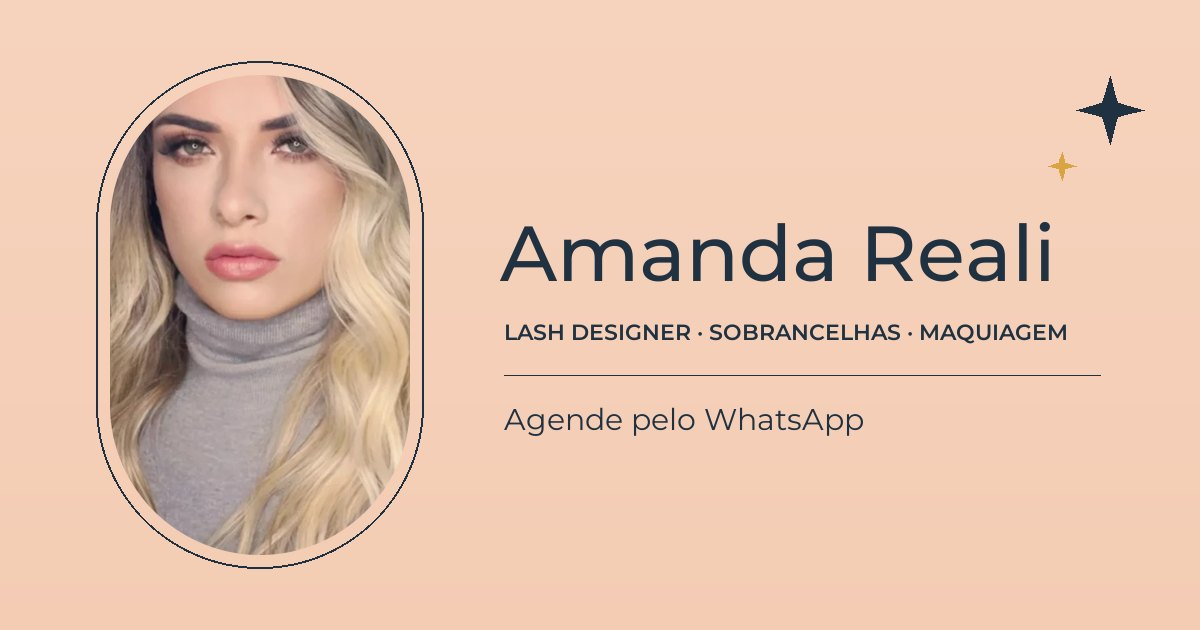
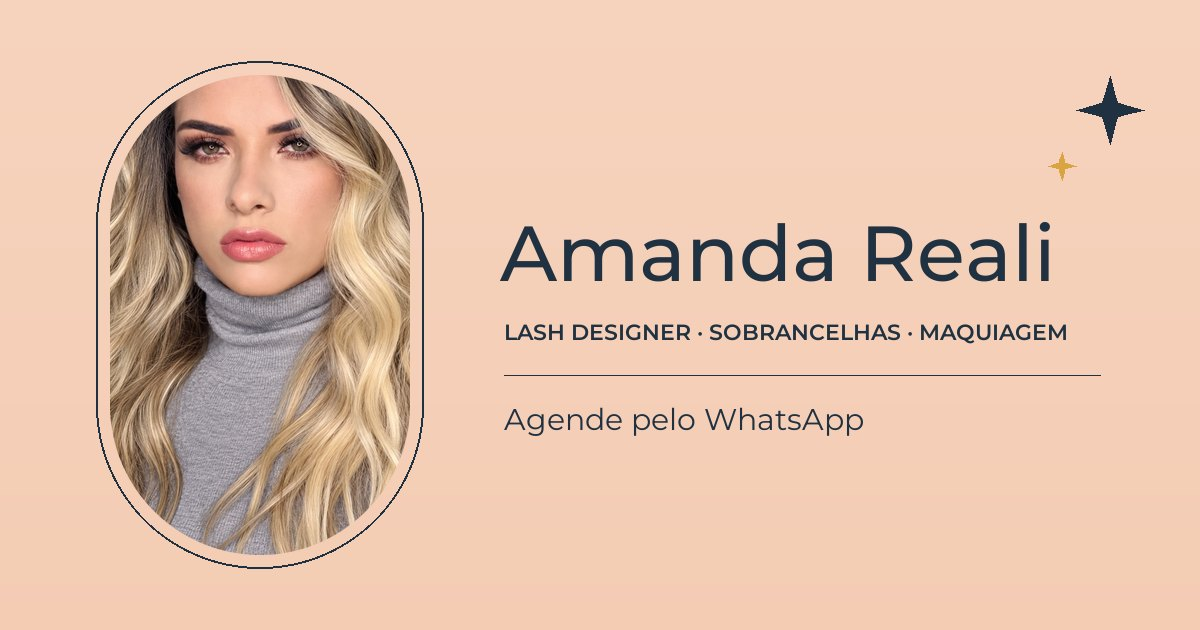
Fotos da Amanda em alta na abertura e no Sobre

Changed region(s): [[0.0925, 0.1206, 0.3392, 0.8746]]

diff --git a/index.html b/index.html
@@ -18,7 +18,7 @@
 <link rel="preconnect" href="https://fonts.googleapis.com">
 <link rel="preconnect" href="https://fonts.gstatic.com" crossorigin>
 <link rel="stylesheet" href="https://fonts.googleapis.com/css2?family=Montserrat:wght@400;500;600&display=swap">
-<link rel="stylesheet" href="assets/css/site.css?v=5">
+<link rel="stylesheet" href="assets/css/site.css?v=6">
 </head>
 <body class="inicio">
 <a class="sr" href="#conteudo">Pular para o conteúdo</a>
@@ -35,7 +35,7 @@
   <div class="wrap">
     <figure class="arco">
       <svg class="arco-texto" viewBox="0 0 400 220" aria-hidden="true"><defs><path id="curva" d="M40 205a160 160 0 0 1 320 0"/></defs><text><textPath href="#curva" startOffset="50%" text-anchor="middle">Um novo conceito de beleza</textPath></text></svg>
-      <div class="arco-foto"><img src="assets/img/amanda-358.webp" alt="Amanda Reali, lash designer" width="358" height="606" fetchpriority="high"></div>
+      <div class="arco-foto"><img src="assets/img/amanda-420.webp" srcset="assets/img/amanda-420.webp 420w, assets/img/amanda-760.webp 760w" sizes="(min-width:960px) 330px, 62vw" alt="Amanda Reali, lash designer" width="420" height="657" fetchpriority="high"></div>
       <span class="arco-brilho"><svg class="i-estrela" viewBox="0 0 24 24" aria-hidden="true"><path d="M12 0c.9 6.4 5.1 10.6 12 12-6.9 1.4-11.1 5.6-12 12-.9-6.4-5.1-10.6-12-12C6.9 10.6 11.1 6.4 12 0z"/></svg></span>
     </figure>
     <div class="hero-texto">
@@ -150,7 +150,7 @@
 <section class="secao" id="sobre" aria-labelledby="t-sobre">
   <div class="wrap sobre">
     <figure class="sobre-foto" data-rv>
-      <div class="sobre-quadro"><img src="assets/img/amanda-sobre-400.webp" alt="Amanda Reali" loading="lazy" width="400" height="400"></div>
+      <div class="sobre-quadro"><img src="assets/img/amanda-sobre-420.webp" srcset="assets/img/amanda-sobre-420.webp 420w, assets/img/amanda-sobre-800.webp 800w" sizes="(min-width:960px) 320px, 66vw" alt="Amanda Reali" loading="lazy" width="420" height="420"></div>
       <span class="sobre-brilho"><svg class="i-estrela" viewBox="0 0 24 24" aria-hidden="true"><path d="M12 0c.9 6.4 5.1 10.6 12 12-6.9 1.4-11.1 5.6-12 12-.9-6.4-5.1-10.6-12-12C6.9 10.6 11.1 6.4 12 0z"/></svg></span>
     </figure>
     <div class="sobre-texto">
@@ -229,7 +229,7 @@
   <div class="lb-palco"><img alt=""></div>
   <div class="lb-base"><button type="button" data-ant aria-label="Anterior">&larr;</button><span class="rot" data-leg></span><button type="button" data-prox aria-label="Próxima">&rarr;</button></div>
 </div>
-<script src="assets/js/obras.js?v=5"></script>
-<script src="assets/js/site.js?v=5"></script>
+<script src="assets/js/obras.js?v=6"></script>
+<script src="assets/js/site.js?v=6"></script>
 </body>
 </html>

diff --git a/tools/paginas/index.html b/tools/paginas/index.html
@@ -8,7 +8,7 @@
   <div class="wrap">
     <figure class="arco">
       <svg class="arco-texto" viewBox="0 0 400 220" aria-hidden="true"><defs><path id="curva" d="M40 205a160 160 0 0 1 320 0"/></defs><text><textPath href="#curva" startOffset="50%" text-anchor="middle">Um novo conceito de beleza</textPath></text></svg>
-      <div class="arco-foto"><img src="assets/img/amanda-358.webp" alt="Amanda Reali, lash designer" width="358" height="606" fetchpriority="high"></div>
+      <div class="arco-foto"><img src="assets/img/amanda-420.webp" srcset="assets/img/amanda-420.webp 420w, assets/img/amanda-760.webp 760w" sizes="(min-width:960px) 330px, 62vw" alt="Amanda Reali, lash designer" width="420" height="657" fetchpriority="high"></div>
       <span class="arco-brilho"><!--estrela--></span>
     </figure>
     <div class="hero-texto">
@@ -123,7 +123,7 @@
 <section class="secao" id="sobre" aria-labelledby="t-sobre">
   <div class="wrap sobre">
     <figure class="sobre-foto" data-rv>
-      <div class="sobre-quadro"><img src="assets/img/amanda-sobre-400.webp" alt="Amanda Reali" loading="lazy" width="400" height="400"></div>
+      <div class="sobre-quadro"><img src="assets/img/amanda-sobre-420.webp" srcset="assets/img/amanda-sobre-420.webp 420w, assets/img/amanda-sobre-800.webp 800w" sizes="(min-width:960px) 320px, 66vw" alt="Amanda Reali" loading="lazy" width="420" height="420"></div>
       <span class="sobre-brilho"><!--estrela--></span>
     </figure>
     <div class="sobre-texto">

diff --git a/agendar.html b/agendar.html
@@ -18,7 +18,7 @@
 <link rel="preconnect" href="https://fonts.googleapis.com">
 <link rel="preconnect" href="https://fonts.gstatic.com" crossorigin>
 <link rel="stylesheet" href="https://fonts.googleapis.com/css2?family=Montserrat:wght@400;500;600&display=swap">
-<link rel="stylesheet" href="assets/css/site.css?v=5">
+<link rel="stylesheet" href="assets/css/site.css?v=6">
 </head>
 <body class="interna">
 <a class="sr" href="#conteudo">Pular para o conteúdo</a>
@@ -109,7 +109,7 @@
   </div>
 </footer>
 <a hidden class="zap-fixo" href="agendar.html" aria-label="Agendar horário"><svg class="i-estrela" viewBox="0 0 24 24" aria-hidden="true"><path d="M12 0c.9 6.4 5.1 10.6 12 12-6.9 1.4-11.1 5.6-12 12-.9-6.4-5.1-10.6-12-12C6.9 10.6 11.1 6.4 12 0z"/></svg><span>Agendar</span></a>
-<script src="assets/js/obras.js?v=5"></script>
-<script src="assets/js/site.js?v=5"></script>
+<script src="assets/js/obras.js?v=6"></script>
+<script src="assets/js/site.js?v=6"></script>
 </body>
 </html>

diff --git a/404.html b/404.html
@@ -19,7 +19,7 @@
 <link rel="preconnect" href="https://fonts.googleapis.com">
 <link rel="preconnect" href="https://fonts.gstatic.com" crossorigin>
 <link rel="stylesheet" href="https://fonts.googleapis.com/css2?family=Montserrat:wght@400;500;600&display=swap">
-<link rel="stylesheet" href="assets/css/site.css?v=5">
+<link rel="stylesheet" href="assets/css/site.css?v=6">
 </head>
 <body class="interna">
 <a class="sr" href="#conteudo">Pular para o conteúdo</a>
@@ -51,7 +51,7 @@
   </div>
 </footer>
 <a class="zap-fixo" href="agendar.html" aria-label="Agendar horário"><svg class="i-estrela" viewBox="0 0 24 24" aria-hidden="true"><path d="M12 0c.9 6.4 5.1 10.6 12 12-6.9 1.4-11.1 5.6-12 12-.9-6.4-5.1-10.6-12-12C6.9 10.6 11.1 6.4 12 0z"/></svg><span>Agendar</span></a>
-<script src="assets/js/obras.js?v=5"></script>
-<script src="assets/js/site.js?v=5"></script>
+<script src="assets/js/obras.js?v=6"></script>
+<script src="assets/js/site.js?v=6"></script>
 </body>
 </html>

diff --git a/trabalhos.html b/trabalhos.html
@@ -18,7 +18,7 @@
 <link rel="preconnect" href="https://fonts.googleapis.com">
 <link rel="preconnect" href="https://fonts.gstatic.com" crossorigin>
 <link rel="stylesheet" href="https://fonts.googleapis.com/css2?family=Montserrat:wght@400;500;600&display=swap">
-<link rel="stylesheet" href="assets/css/site.css?v=5">
+<link rel="stylesheet" href="assets/css/site.css?v=6">
 </head>
 <body class="interna">
 <a class="sr" href="#conteudo">Pular para o conteúdo</a>
@@ -75,7 +75,7 @@
   <div class="lb-palco"><img alt=""></div>
   <div class="lb-base"><button type="button" data-ant aria-label="Anterior">&larr;</button><span class="rot" data-leg></span><button type="button" data-prox aria-label="Próxima">&rarr;</button></div>
 </div>
-<script src="assets/js/obras.js?v=5"></script>
-<script src="assets/js/site.js?v=5"></script>
+<script src="assets/js/obras.js?v=6"></script>
+<script src="assets/js/site.js?v=6"></script>
 </body>
 </html>

diff --git a/assets/css/site.css b/assets/css/site.css
@@ -126,7 +126,7 @@ p{margin:0 0 1em}
 .arco-texto{position:absolute;left:-18%;top:-13%;width:136%;overflow:visible;pointer-events:none}
 .arco-texto text{font:500 25px var(--fonte);fill:var(--tinta);letter-spacing:.02em}
 .arco-foto{position:relative;aspect-ratio:358/560;border-radius:999px;overflow:hidden;background:var(--pessego2)}
-.arco-foto img{width:100%;height:100%;object-fit:cover;object-position:50% 40%}
+.arco-foto img{width:100%;height:100%;object-fit:cover;object-position:50% 30%}
 .arco::after{content:"";position:absolute;inset:-10px;border:1px solid var(--tinta);border-radius:999px;pointer-events:none}
 .arco-brilho{position:absolute;right:-14%;bottom:8%;width:34px;height:34px;color:var(--tinta)}
 .arco-brilho svg{width:100%;height:100%}

diff --git a/tools/processar.py b/tools/processar.py
@@ -72,15 +72,17 @@ def main():
     open(os.path.join(SITE, 'assets', 'js', 'obras.js'), 'w', encoding='utf-8').write(
         'window.OBRAS = ' + json.dumps(lista, ensure_ascii=False, separators=(',', ':')) + ';\n')
 
-    # foto dela: miolo da moldura oval do post de apresentação
-    p = Image.open(os.path.join(REF, 'identidade.webp')).convert('RGB')
-    p = p.crop((168, 132, 526, 738))
-    salvar(p, IMG, 'amanda', (358,), q=88)
-
-    # foto do Sobre: Amanda.jpg do zip (só 100 px; ampliada 4x até chegar a original). CONFIRMAR
-    s = Image.open(os.path.join(ORIG, 'Amanda.jpg')).convert('RGB')
-    s = s.resize((400, 400), Image.LANCZOS).filter(ImageFilter.UnsharpMask(radius=1.2, percent=60, threshold=2))
-    s.save(os.path.join(IMG, 'amanda-sobre-400.webp'), 'WEBP', quality=88, method=6)
+    # fotos dela em alta (enviadas pelo usuário em 06/10)
+    h = Image.open(os.path.join(REF, 'cliente', 'amanda-hero.png')).convert('RGB')
+    w = round(h.height * 358 / 560)  # proporção do arco da abertura
+    x = (h.width - w) // 2
+    h = h.crop((x, 0, x + w, h.height))
+    for lw in (420, 760):
+        h.resize((lw, round(h.height * lw / h.width)), Image.LANCZOS).save(os.path.join(IMG, f'amanda-{lw}.webp'), 'WEBP', quality=84, method=6)
+    p = h  # base da prévia de link
+    so = Image.open(os.path.join(REF, 'cliente', 'amanda-sobre.png')).convert('RGB')
+    for lw in (420, 800):
+        so.resize((lw, lw), Image.LANCZOS).save(os.path.join(IMG, f'amanda-sobre-{lw}.webp'), 'WEBP', quality=84, method=6)
 
     # efeitos: imagens ilustrativas geradas por IA (Figma AI, gemini-3.1-flash-image), em ../_ref/efeitos-ia
     for n in ('natural', 'boneca', 'gatinho', 'esquilo', 'molhado'):
@@ -97,7 +99,7 @@ def main():
     for y in range(630):
         gd.line((0, y, 1200, y), fill=int(120 * y / 630))
     og.paste(Image.new('RGB', (1200, 630), (242, 196, 170)), (0, 0), g)
-    foto = p.resize((300, round(p.height * 300 / p.width)), Image.LANCZOS).crop((0, 0, 300, 480))
+    foto = ImageOps.fit(p, (300, 480), Image.LANCZOS, centering=(.5, .3))
     masc = Image.new('L', (300 * 4, 480 * 4), 0)
     ImageDraw.Draw(masc).rounded_rectangle((0, 0, 1199, 1919), radius=600, fill=255)
     masc = masc.resize((300, 480), Image.LANCZOS)

diff --git a/tools/montar_paginas.py b/tools/montar_paginas.py
@@ -2,7 +2,7 @@
 Troque V para furar o cache de CSS/JS.
 Marcadores nas páginas: <!--seta-->, <!--estrela--> e <!--zap-->."""
 import os, re, glob
-V = '5'
+V = '6'
 AQUI = os.path.dirname(os.path.abspath(__file__))
 SITE = os.path.dirname(AQUI)
 BASE = 'https://azeugral.github.io/amanda-reali/'  # CONFIRMAR: trocar quando houver domínio

diff --git a/README.md b/README.md
@@ -26,6 +26,8 @@ Tirada do post de apresentação dela ("Um novo conceito de beleza"), em `../_re
 - **Favicon:** o AR original sobre pêssego, num quadrado de cantos arredondados (`favicon-32.png`, `favicon.ico`, `icone-512.png`). O `icone-180` (iOS) fica quadrado, porque o iOS já arredonda.
 - **Botões:** retos, com duas células: rótulo e ícone. No hover, a estrela gira 90° e a célula fica dourada.
 
+Fotos dela em alta (06/10): `../_ref/cliente/amanda-hero.png` vai no arco da abertura e `amanda-sobre.png` no Sobre.
+
 ## Estrutura
 
 | Arquivo | O que é |
@@ -62,10 +64,6 @@ Os itens pendentes aparecem no site como "✦ a preencher", com sublinhado trace
 - [ ] **Sobre:** desde quando atende, formação, cursos.
 - [ ] **Sinal** para reservar, e a duração média da aplicação.
 - [ ] **Cuidados:** a lista atual é a padrão do mercado. Ela confere.
-- [ ] **Fotos dela:**
-  - Abertura: recortada do post, com cerca de 360 px.
-  - Sobre: `Amanda.jpg` do zip, que tem só **100 px** e foi ampliada 4x, por isso fica borrada.
-  - Pedir as originais em alta.
 - [ ] **Efeitos:** as 5 imagens são **ilustrativas, geradas por IA** (Figma AI, gemini-3.1-flash-image). Ficam em `../_ref/efeitos-ia`, e o site avisa isso abaixo da seção. Trocar por fotos reais dela, se tiver.
 - [ ] **Adega Realledo:** está na bio e ficou fora do site.
 - [ ] **Domínio:** trocar `BASE` em `tools/montar_paginas.py` e o `<base>` do 404, tirar o `noindex` e liberar o `robots.txt`.
